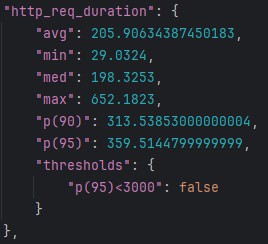
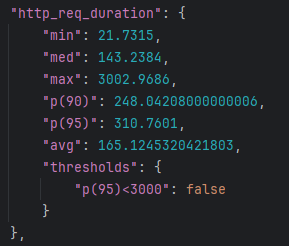
doc: 시나리오 3 k6 성능 평가(부하테스트) 캡쳐 추가

diff --git a/k6-scripts/chapter4/scenario3-concurrency.js b/k6-scripts/chapter4/scenario3-concurrency.js
@@ -1,0 +1,125 @@
+/**
+ * 시나리오 3: 동시성 제어 부하 테스트
+ *
+ * [테스트 목적]
+ * 선착순 이벤트(정원 30명)에 100명이 동시 요청을 보낼 때
+ * 락 전략별로 처리량(RPS), 응답시간(p95), 에러율이 어떻게 다른지 비교한다.
+ *
+ * [왜 부하 테스트가 필수인가]
+ * Race Condition은 단건 요청으로 재현 불가 — 반드시 동시 요청이 있어야 발생한다.
+ * k6가 없으면 "정원 초과 0건"을 증명할 수단이 없다.
+ *
+ * [STRATEGY 옵션]
+ *   pessimistic  → SELECT FOR UPDATE (즉시 DB 잠금)
+ *   optimistic   → @Version 낙관적 락 + 재시도
+ *   redis-named  → Redis setIfAbsent 분산 락
+ *
+ * [실행 방법]
+ *   $env:BASE_URL="http://<EC2_IP>:8080/api"
+ *   $env:TEST_EMAIL="k6test@test.com"; $env:TEST_PASSWORD="password123"
+ *
+ *   # 이벤트 생성 (최초 1회)
+ *   $res = Invoke-RestMethod -Method POST "$env:BASE_URL/chapter4/events/setup?maxParticipants=30"
+ *   $env:EVENT_ID = $res.eventId
+ *
+ *   # 전략별 실행
+ *   $env:STRATEGY="pessimistic"
+ *   curl -X POST "$env:BASE_URL/chapter4/events/$env:EVENT_ID/reset"
+ *   k6 run scenario3-concurrency.js --summary-export "results/scenario3_pessimistic.json"
+ *
+ *   $env:STRATEGY="optimistic"
+ *   curl -X POST "$env:BASE_URL/chapter4/events/$env:EVENT_ID/reset"
+ *   k6 run scenario3-concurrency.js --summary-export "results/scenario3_optimistic.json"
+ *
+ *   $env:STRATEGY="redis-named"
+ *   curl -X POST "$env:BASE_URL/chapter4/events/$env:EVENT_ID/reset"
+ *   k6 run scenario3-concurrency.js --summary-export "results/scenario3_redis-named.json"
+ *
+ * [모니터링 포인트 — Grafana]
+ *   - JVM Threads: 100 VU 진입 시 스레드 수 증가 패턴 (전략별 차이)
+ *   - HikariCP pending connections: redis-named 전략에서 DB 커넥션 경합 없음 확인
+ *   - HTTP Request Duration (p95): 전략별 응답시간 비교
+ */
+
+import http from 'k6/http';
+import { check, sleep } from 'k6';
+import { Rate, Counter } from 'k6/metrics';
+import { BASE_URL, TEST_EMAIL, TEST_PASSWORD } from '../config.js';
+
+const STRATEGY = __ENV.STRATEGY || 'pessimistic';
+const EVENT_ID  = __ENV.EVENT_ID  || '1';
+const MAX_PARTICIPANTS = parseInt(__ENV.MAX_PARTICIPANTS || '30');
+
+const errorRate    = new Rate('errors');
+const joinSuccess  = new Counter('join_success');   // 200: 정상 참여
+const joinFull     = new Counter('join_full');       // 400: 정원 초과 (정상 거절)
+
+export const options = {
+  stages: [
+    // Phase 1: 준비 — 소수 VU로 JWT 토큰 발급 및 서버 워밍업
+    { duration: '5s',  target: 10  },
+    // Phase 2: 경쟁 발생 — 100 VU 순간 집중 (동시성 문제 재현 구간)
+    { duration: '5s',  target: 100 },
+    // Phase 3: 지속 부하 — 정원 초과 여부 및 락 안정성 검증
+    { duration: '30s', target: 100 },
+    // Phase 4: ramp-down
+    { duration: '10s', target: 0   },
+  ],
+  thresholds: {
+    // 비즈니스 에러(5xx)는 0% — 4xx(정원 초과)는 허용
+    'errors':             ['rate<0.01'],
+    // p95 3초 이내 (Redis Named Lock은 재시도 오버헤드로 다소 높을 수 있음)
+    'http_req_duration':  ['p(95)<3000'],
+  },
+};
+
+let authToken = null;
+
+export function setup() {
+  const loginRes = http.post(
+    `${BASE_URL}/chapter2/members/login`,
+    JSON.stringify({ email: TEST_EMAIL, password: TEST_PASSWORD }),
+    { headers: { 'Content-Type': 'application/json' } }
+  );
+
+  if (loginRes.status !== 200) {
+    console.error(`[setup] 로그인 실패: ${loginRes.status}`);
+    return { token: null };
+  }
+  return { token: loginRes.json('token') };
+}
+
+export default function (data) {
+  const headers = {
+    'Content-Type': 'application/json',
+    ...(data.token ? { Authorization: `Bearer ${data.token}` } : {}),
+  };
+
+  const res = http.post(
+    `${BASE_URL}/chapter4/events/${EVENT_ID}/join/${STRATEGY}`,
+    null,
+    { headers }
+  );
+
+  // 200: 참여 성공 / 400: 정원 초과 (의도된 거절) — 둘 다 정상
+  // 500: 서버 에러 (Lock 실패, Connection Pool 고갈 등) — 비정상
+  const isBusinessOk = check(res, {
+    '200 참여 성공 또는 400 정원 초과': (r) => r.status === 200 || r.status === 400,
+  });
+  errorRate.add(!isBusinessOk);
+
+  if (res.status === 200) joinSuccess.add(1);
+  if (res.status === 400) joinFull.add(1);
+
+  sleep(0.05); // 50ms — 현실적인 클라이언트 간격
+}
+
+export function teardown(data) {
+  // 테스트 종료 후 실제 참여자 수 검증
+  // join_success 카운터가 MAX_PARTICIPANTS를 초과하면 Race Condition 발생
+  console.log(`\n========== 결과 요약 ==========`);
+  console.log(`전략: ${STRATEGY}`);
+  console.log(`정원: ${MAX_PARTICIPANTS}명`);
+  console.log(`join_success는 k6 summary에서 확인 — MAX_PARTICIPANTS(${MAX_PARTICIPANTS}) 초과 여부가 핵심`);
+  console.log(`================================\n`);
+}
